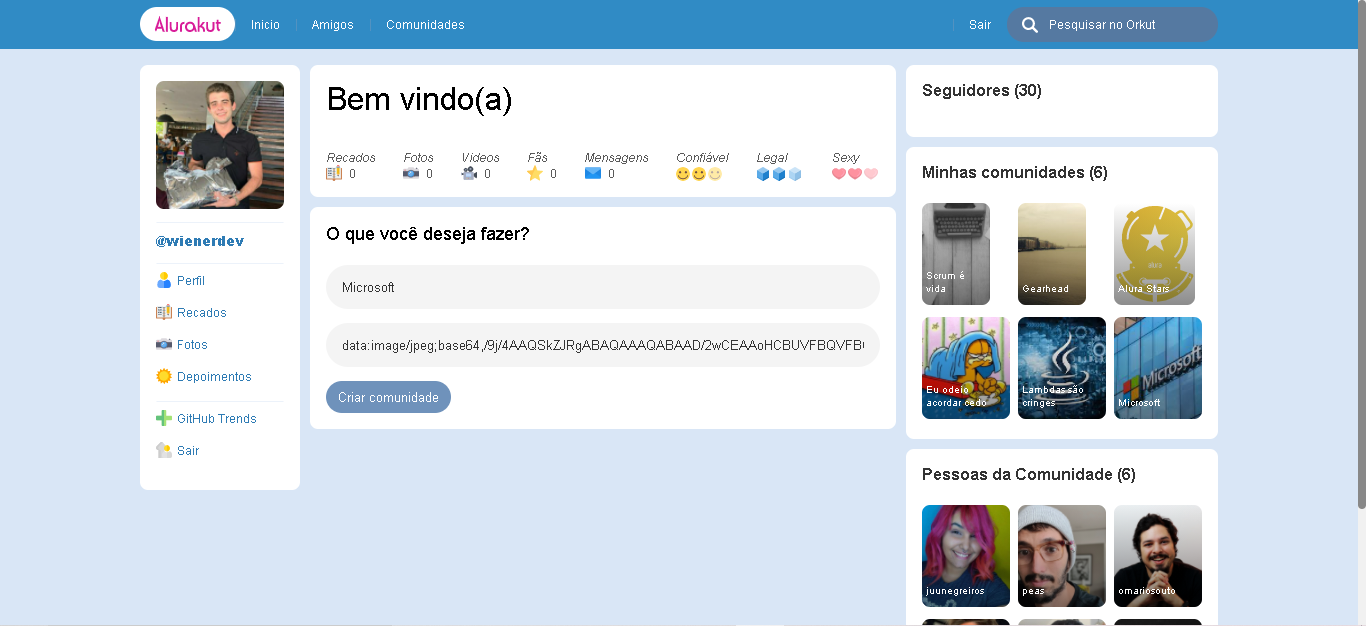
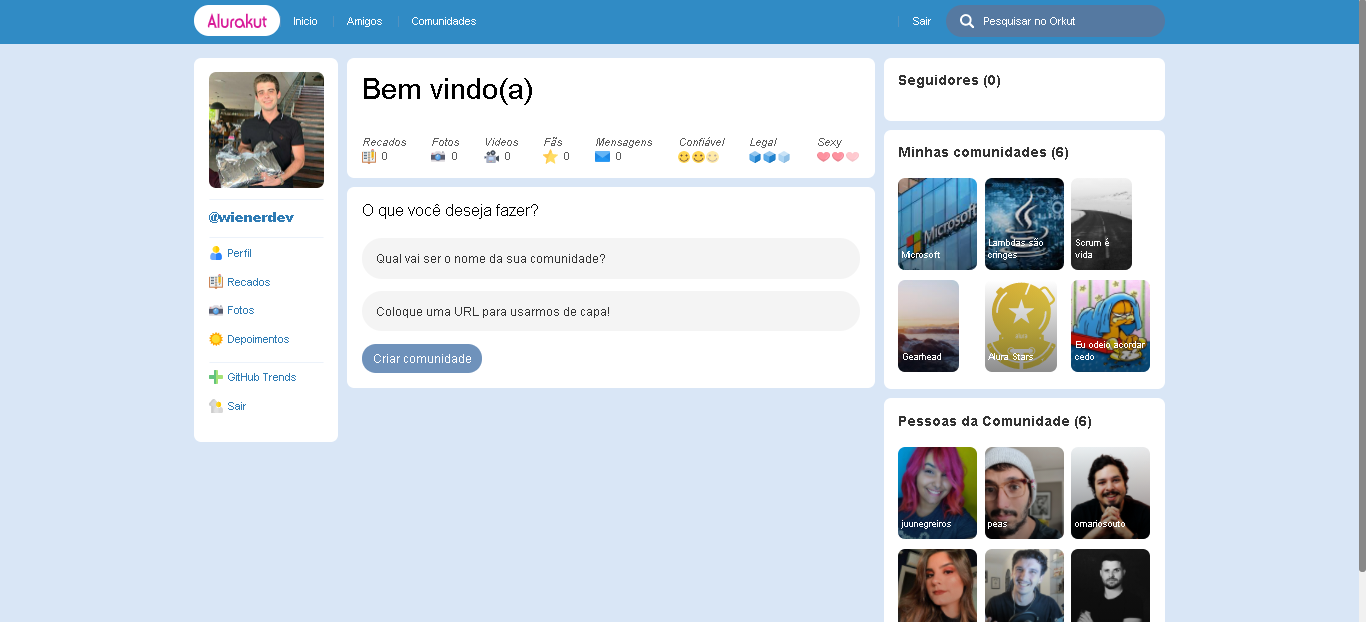
docs: update img and followers

diff --git a/pages/index.js b/pages/index.js
@@ -66,7 +66,7 @@ export default function Home(props) {
   const [seguidores, setSeguidores] = React.useState([]);
   // 0 - Pegar o array de dados do GitHub API
   React.useEffect(function () {
-    fetch('https://api.github.com/users/peas/followers')
+    fetch(githubUser)
       .then(function (respostaDoServidor) {
         return respostaDoServidor.json();
       })
